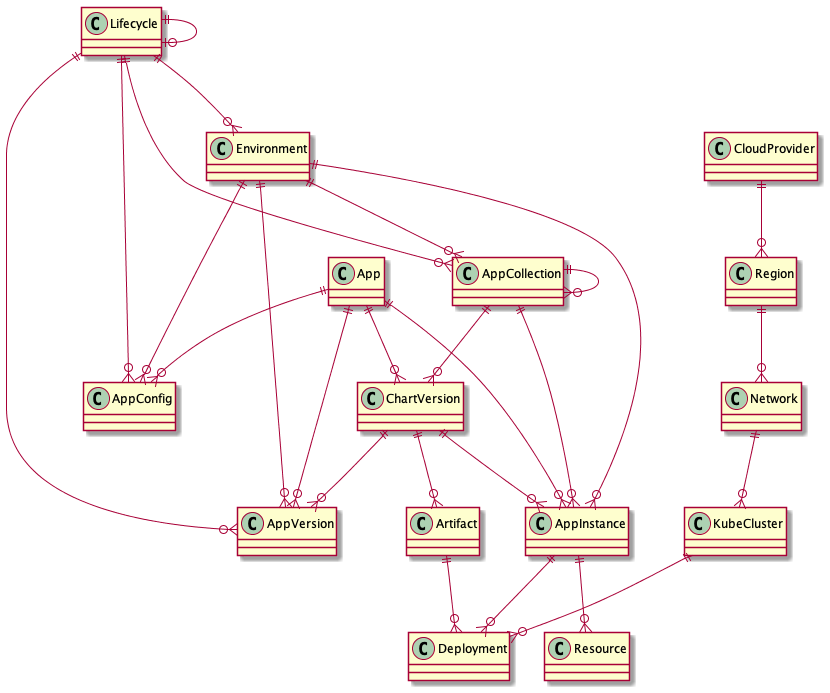
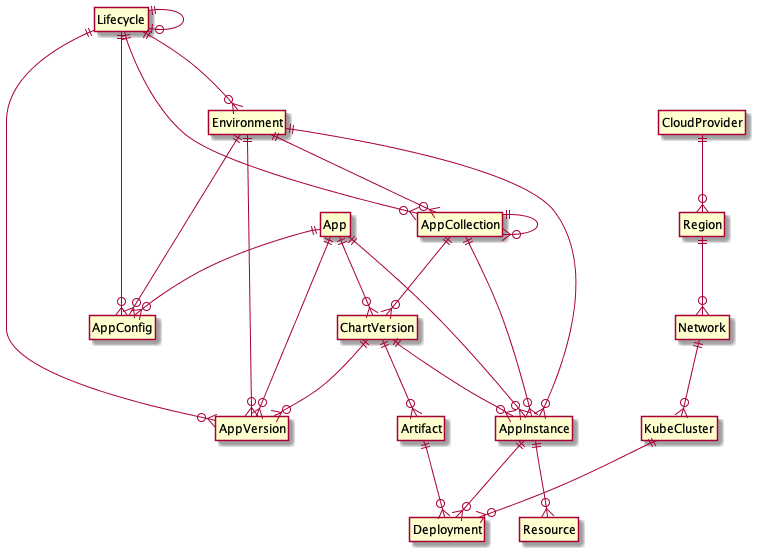
Added hide circle and hide members to plantuml diagram

diff --git a/docs/erd_plantuml.md b/docs/erd_plantuml.md
@@ -1,5 +1,7 @@
 ```plantuml
 @startuml
+    hide circle
+    hide members
     AppCollection ||--o{ ChartVersion : ""
     AppCollection ||--o{ AppCollection : ""
     AppCollection ||--o{ AppInstance : ""
